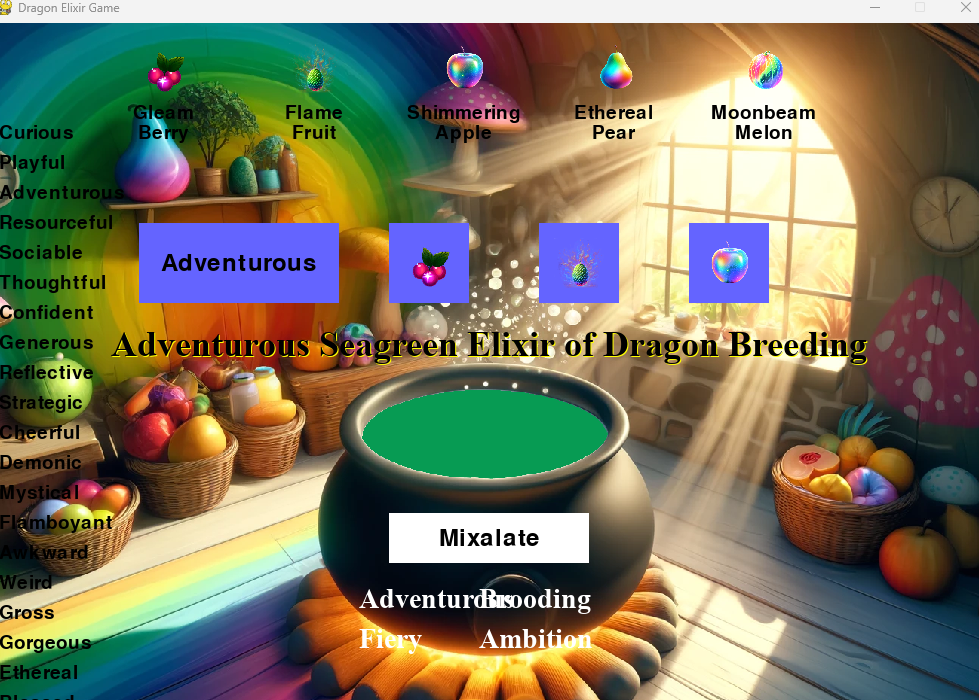
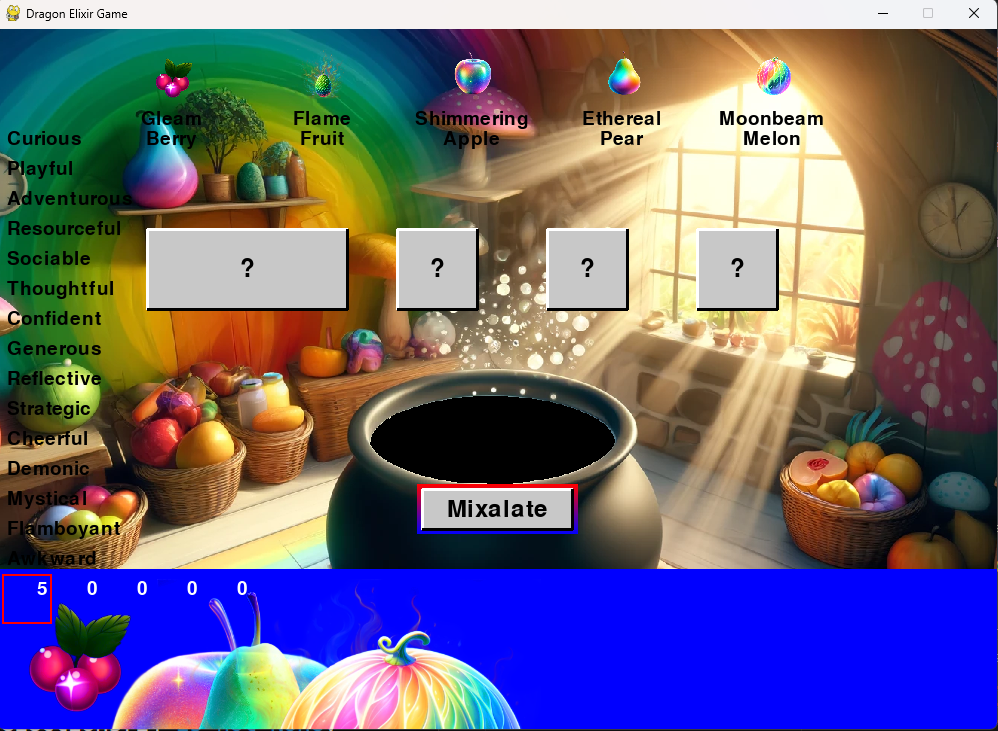
stable with inventory

diff --git a/Mixolator.py b/Mixolator.py
@@ -8,6 +8,7 @@ pygame.init()
 
 # Screen dimensions
 WIDTH, HEIGHT = 1000, 700
+PLAYABLE_HEIGHT = HEIGHT - 100  # Space for the inventory at the bottom
 screen = pygame.display.set_mode((WIDTH, HEIGHT))
 pygame.display.set_caption("Dragon Elixir Game")
 
@@ -19,24 +20,25 @@ HOVER_COLOR = (170, 170, 170)
 SELECTED_COLOR = (100, 100, 255)
 TEXT_HIGHLIGHT = (255, 255, 0)  # Highlight color for text
 BLUE = (0, 0, 255)
+RED = (255, 0, 0)
 
 # Load images
-background = pygame.image.load("potionbackground.png").convert_alpha()  # Load with alpha for transparency
-background = pygame.transform.scale(background, (WIDTH, HEIGHT))  # Scale the background to fit the screen
+background = pygame.image.load("potionbackground.png").convert_alpha()
+background = pygame.transform.scale(background, (WIDTH, HEIGHT))
 ethereal_pear = pygame.image.load("etherealpear.png")
 flame_fruit = pygame.image.load("flamefruit.png")
 gleam_berry = pygame.image.load("gleamberry.png")
 moonbeam_melon = pygame.image.load("moonbeammelon.png")
 shimmering_apple = pygame.image.load("shimmeringapple.png")
 
-# Resize fruit images
-fruit_images = [gleam_berry, flame_fruit, shimmering_apple, ethereal_pear, moonbeam_melon]
-fruit_images = [pygame.transform.scale(fruit, (45, 45)) for fruit in fruit_images]  # Ensuring all fruits are 45x45 pixels
-
-# Assign images to fruit names
-fruit_names_images = [("gleamberry", fruit_images[0]), ("shimmeringapple", fruit_images[1]), 
-                      ("etherealpear", fruit_images[2]), ("flamefruit", fruit_images[3]), 
-                      ("moonbeammelon", fruit_images[4])]
+# Resize fruit images and store in a dictionary
+fruit_images = {
+    "gleamberry": pygame.transform.scale(gleam_berry, (45, 45)),
+    "flamefruit": pygame.transform.scale(flame_fruit, (45, 45)),
+    "shimmeringapple": pygame.transform.scale(shimmering_apple, (45, 45)),
+    "etherealpear": pygame.transform.scale(ethereal_pear, (45, 45)),
+    "moonbeammelon": pygame.transform.scale(moonbeam_melon, (45, 45))
+}
 
 # RGB ranges for each fruit
 fruit_rgb_ranges = {
@@ -89,17 +91,44 @@ elixir_personality = None
 elixir_color_name = None
 elixir_title = None
 
-# Inventory setup
-fruit_names_images = [("gleamberry", gleam_berry), ("shimmeringapple", shimmering_apple), ("etherealpear", ethereal_pear), ("flamefruit", flame_fruit), ("moonbeammelon", moonbeam_melon)]
-
-class Player:
+class Inventory:
     def __init__(self):
-        self.inventory = {fruit: 0 for fruit in ["gleamberry", "shimmeringapple", "etherealpear", "flamefruit", "moonbeammelon"]}
-        # Add any other initialization here
+        self.items = {fruit: 0 for fruit in fruit_images}
+        self.items["gleamberry"] = 5
+        self.selected_fruit = "gleamberry"
 
     def collect_fruit(self, fruit):
-        self.inventory[fruit] += 1
-        # Implement any additional logic needed for collecting fruits
+        self.items[fruit] += 1
+
+    def remove_selected_fruit(self):
+        if self.items[self.selected_fruit] > 0:
+            self.items[self.selected_fruit] -= 1
+
+    def set_selected_fruit(self, fruit):
+        if fruit in self.items:
+            self.selected_fruit = fruit
+
+inventory = Inventory()
+
+def draw_inventory(surface, inventory):
+    pygame.draw.rect(surface, BLUE, (0, HEIGHT - 100, WIDTH, 100))  # Adjusted to fit within the screen dimensions
+    x_offset, y_offset = 10, HEIGHT - 90
+    for fruit, image in fruit_images.items():
+        resized_image = pygame.transform.scale(image, (40, 40))  # Resize to fit within the inventory area
+        surface.blit(resized_image, (x_offset, y_offset))
+        draw_text(surface, str(inventory.items[fruit]), 18, x_offset + 20, y_offset + 45, WHITE, highlight=None)
+        if fruit == inventory.selected_fruit:
+            pygame.draw.rect(surface, RED, (x_offset - 5, y_offset - 5, 50, 50), 2)
+        x_offset += 50
+
+# Ensure to define fruit_images as a dictionary:
+fruit_images = {
+    "gleamberry": pygame.transform.scale(pygame.image.load("gleamberry.png"), (50, 50)),
+    "shimmeringapple": pygame.transform.scale(pygame.image.load("shimmeringapple.png"), (50, 50)),
+    "etherealpear": pygame.transform.scale(pygame.image.load("etherealpear.png"), (50, 50)),
+    "flamefruit": pygame.transform.scale(pygame.image.load("flamefruit.png"), (50, 50)),
+    "moonbeammelon": pygame.transform.scale(pygame.image.load("moonbeammelon.png"), (50, 50))
+}
 
 def closest_color(requested_color):
     min_colors = {}
@@ -118,13 +147,15 @@ def get_color_name(requested_color):
         closest_name = closest_color(requested_color)
     return closest_name.capitalize()
 
-def draw_text(screen, text, font, color, rect, highlight=None):
+def draw_text(surface, text, size, x, y, color, highlight=None):
+    font = pygame.font.SysFont(None, size)
     if highlight:
         highlight_surface = font.render(text, True, highlight)
-        screen.blit(highlight_surface, (rect.x + 1, rect.y + 1))
+        surface.blit(highlight_surface, (x + 1, y + 1))
     text_surface = font.render(text, True, color)
-    screen.blit(text_surface, rect)
-
+    text_rect = text_surface.get_rect(midtop=(x, y))
+    surface.blit(text_surface, text_rect)
+    
 def draw_beveled_button(screen, rect, color, text=None, font=None, text_color=BLACK):
     pygame.draw.rect(screen, color, rect)
     pygame.draw.line(screen, WHITE, rect.topleft, (rect.right, rect.top), 3)
@@ -146,18 +177,7 @@ def draw_gradient_rect(screen, rect, color1, color2):
         ]
         pygame.draw.line(screen, color, (rect.left, y), (rect.right, y))
 
-def draw_inventory(surface, player):
-    pygame.draw.rect(surface, BLUE, (0, HEIGHT - 100, WIDTH, 100))
-    x_offset, y_offset = 10, HEIGHT - 90
-    for fruit, image in fruit_names_images:
-        surface.blit(image, (x_offset, y_offset))
-        draw_text(surface, str(player.inventory[fruit]), small_font, WHITE, pygame.Rect(x_offset + 50, y_offset, 50, 50))
-        x_offset += 100  # Adjust the offset to space out the images correctly
-
-
-def draw_screen(player):
-    screen.fill(BLACK)  # Clear the screen with a black color
-    
+def draw_screen():
     # Draw the color swatch in the center of the screen behind the background
     if elixir_color:
         pygame.draw.rect(screen, elixir_color, pygame.Rect(WIDTH // 2 - 150, HEIGHT // 2 - 50, 400, 400))
@@ -169,7 +189,7 @@ def draw_screen(player):
     for i, pos in enumerate(fruit_positions):
         if pygame.Rect(pos[0], pos[1], 50, 50).collidepoint(pygame.mouse.get_pos()):
             pygame.draw.rect(screen, HOVER_COLOR, pygame.Rect(pos[0] - 5, pos[1] - 5, 60, 60))
-        screen.blit(fruit_images[i], pos)
+        screen.blit(fruit_images[list(fruit_images.keys())[i]], pos)
         # Draw fruit labels under the fruit icons
         fruit_name_lines = ["Gleam Berry", "Flame Fruit", "Shimmering Apple", "Ethereal Pear", "Moonbeam Melon"][i].split()
         for line_index, line in enumerate(fruit_name_lines):
@@ -184,7 +204,7 @@ def draw_screen(player):
                 text = font.render(personality_keywords[selections[i]], True, BLACK)
                 screen.blit(text, (box.x + (box.width - text.get_width()) // 2, box.y + (box.height - text.get_height()) // 2))
             else:  # Fruit selections
-                screen.blit(fruit_images[selections[i]], (box.x + 15, box.y + 15))
+                screen.blit(fruit_images[list(fruit_images.keys())[selections[i]]], (box.x + 15, box.y + 15))
 
     # Draw personality word options on the left
     for i, keyword in enumerate(personality_keywords):
@@ -210,17 +230,14 @@ def draw_screen(player):
             x_pos = 330 + col * 180  # Base x-coordinate for columns
             screen.blit(text, (x_pos + (150 - text.get_width()) // 2, 510 + row * 40))  # Centering text within the columns
 
-    # Draw the inventory at the end
-    draw_inventory(screen, player)
+    draw_inventory(screen, inventory)  # Draw the inventory
 
     pygame.display.flip()
-
 
 def main():
     global elixir_color, elixir_personality, elixir_color_name, elixir_title
     running = True
     selected_box = None
-    player = Player()
 
     while running:
         for event in pygame.event.get():
@@ -236,7 +253,6 @@ def main():
                         if selected_box is not None and selected_box > 0:
                             selections[selected_box] = i
                             selected_box = None
-                            player.collect_fruit(fruit_names_images[i][0])
                 for i in range(len(personality_keywords)):
                     if pygame.Rect(10, 100 + 30 * i, 200, 30).collidepoint(x, y):
                         if selected_box == 0:
@@ -254,13 +270,13 @@ def main():
                     ]
                     elixir_personality.insert(0, personality_keywords[selections[0]])
                     elixir_title = f"{personality_keywords[selections[0]]} {elixir_color_name} Elixir of Dragon Breeding"
-                    # print(f"Dragon Elixir Created! Color: {elixir_color_name}, Personality: {elixir_personality}")
+                    #print(f"Dragon Elixir Created! Color: {elixir_color_name}, Personality: {elixir_personality}")
 
-        draw_screen(player)
-        pygame.display.flip()
+        draw_screen()
 
     pygame.quit()
     sys.exit()
 
 if __name__ == "__main__":
     main()
+
